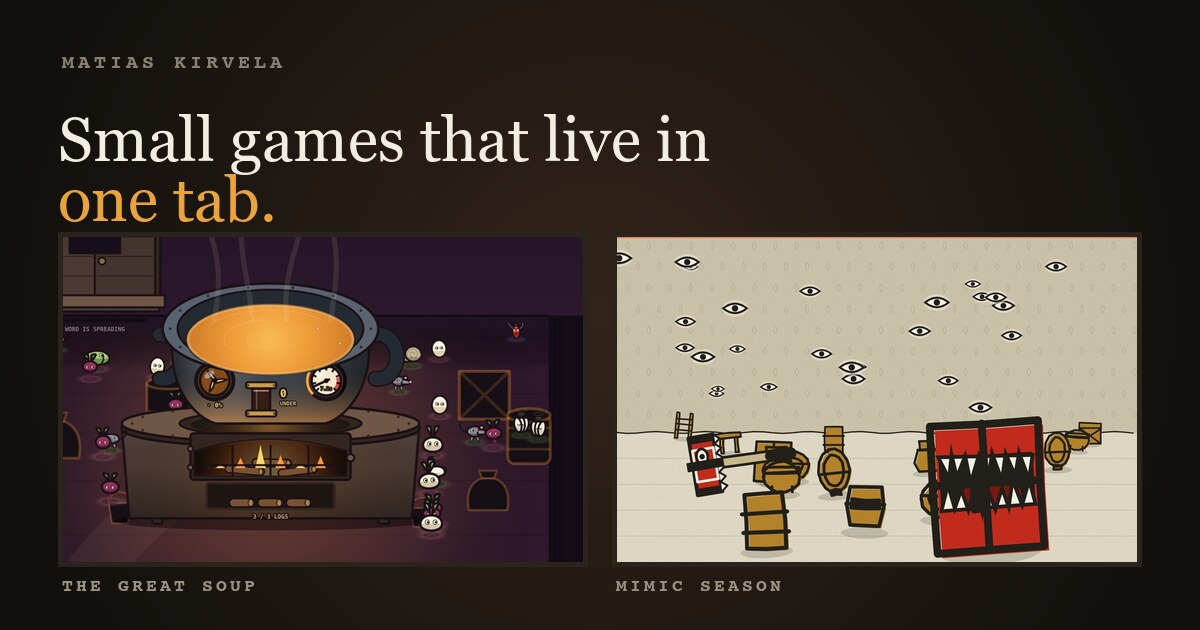
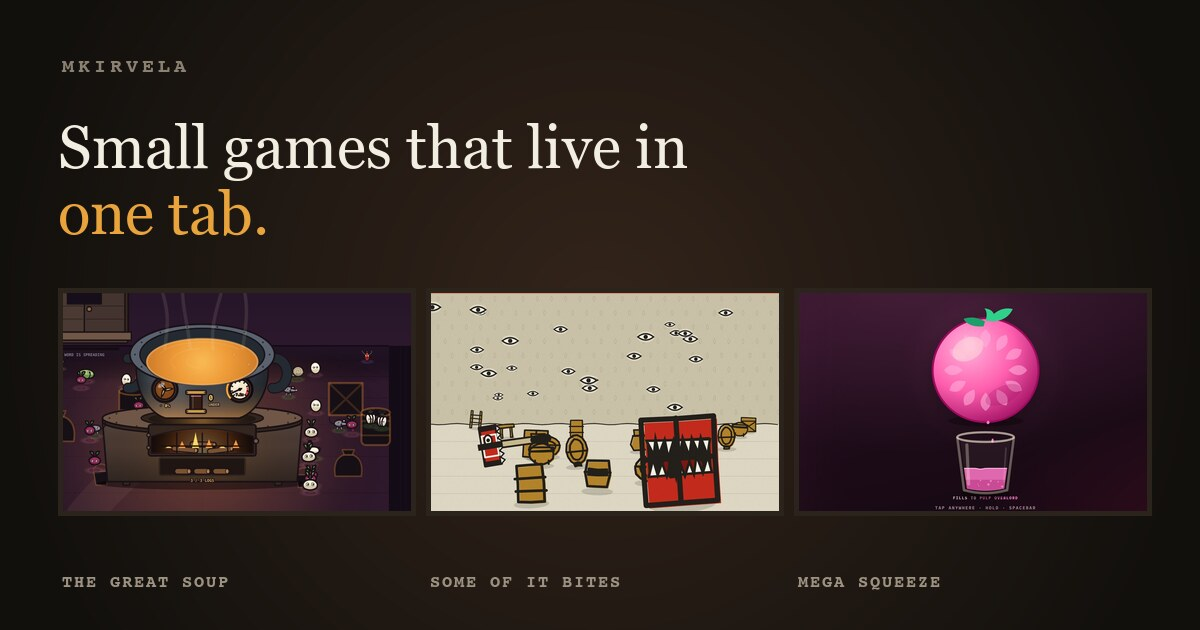
Add Mega Squeeze as the third game

diff --git a/games/mega-squeeze.html b/games/mega-squeeze.html
@@ -1,0 +1,178 @@
+<!DOCTYPE html>
+<html lang="en">
+<head>
+<meta charset="utf-8">
+<meta name="viewport" content="width=device-width, initial-scale=1">
+<title>Mega Squeeze — mkirvela</title>
+<meta name="description" content="A cold-pressed juice empire in one HTML file. Squeeze the fruit, fill the glass, buy help, never stop.">
+<meta name="theme-color" content="#faf7f0" media="(prefers-color-scheme: light)">
+<meta name="theme-color" content="#12100d" media="(prefers-color-scheme: dark)">
+
+<meta property="og:type" content="article">
+<meta property="og:title" content="Mega Squeeze">
+<meta property="og:description" content="A cold-pressed juice empire in one HTML file. Squeeze the fruit, fill the glass, buy help, never stop.">
+<meta property="og:image" content="../assets/img/mega-squeeze-og.jpg">
+<meta name="twitter:card" content="summary_large_image">
+
+<link rel="stylesheet" href="../assets/css/site.css">
+<link rel="icon" type="image/png" href="../assets/img/favicon-64.png">
+
+<!-- Blocking, and in the head, so the stored theme is on <html> before the
+     first paint. Deferring it buys nothing and costs a flash of the wrong
+     colour on every load. -->
+<script src="../assets/js/theme.js"></script>
+</head>
+<body style="--accent:#ff5fae; --accent-ink:#2a0715;">
+<div class="shell">
+
+<header class="wrap masthead">
+  <a class="wordmark" href="../index.html">
+    <img class="avatar" src="../assets/img/mkirvela.png" width="128" height="128" alt="">
+    <span class="wordmark-name">mkirvela</span>
+  </a>
+  <nav>
+    <a href="../index.html#shelf">Games</a>
+    <!-- hidden until theme.js unhides it, so no-JS readers are not offered a
+         control that cannot do anything -->
+    <button class="theme-btn" type="button" data-theme-toggle hidden>
+      Theme &middot; <span class="theme-btn-text">auto</span>
+    </button>
+  </nav>
+</header>
+
+<div class="wrap">
+  <a class="backlink" href="../index.html#shelf">&larr; All games</a>
+</div>
+
+<section class="wrap game-hero">
+  <p class="game-index"><b>03</b> <span class="kind">Clicker &middot; Idle</span></p>
+  <h1>Mega Squeeze</h1>
+  <p class="game-tagline">A cold-pressed juice empire in one HTML file.</p>
+  <div class="actions">
+    <a class="btn" href="https://mkirvela.github.io/mega-squeeze/">
+      Play in browser
+      <svg width="12" height="12" viewBox="0 0 12 12" aria-hidden="true"><path d="M2 1.5v9l8-4.5-8-4.5z" fill="currentColor"/></svg>
+    </a>
+    <span class="status">Playable</span>
+  </div>
+</section>
+
+<div class="wrap">
+  <figure class="hero-plate">
+    <span class="plate-frame">
+      <img src="../assets/img/mega-squeeze-room.jpg" width="1200" height="750"
+           alt="The game at the Dragonfruit rank: a glossy pink fruit above a tumbler half full of pink juice, a counter reading 1.40B millilitres, and a right-hand panel listing presses to buy — Calloused Thumb, Iron Grip, Zest Grater, Hydraulic Thumb, Thunder Palm, Orchard Kid.">
+    </span>
+    <figcaption>Six ranks in, at Dragon Distiller. The whole palette has retinted around the fruit &mdash; the panel, the numbers, the juice and the spill along the bottom edge.</figcaption>
+  </figure>
+</div>
+
+<main class="wrap detail">
+  <div class="prose">
+
+    <h2>What it is</h2>
+    <p class="first">
+      A clicker. Tap to earn, spend on stronger taps and passive presses, climb
+      ranks, replant for a permanent multiplier, repeat. You know this machine
+      already &mdash; the point of the exercise was <em>game feel</em>, so every
+      system in it is built to be felt rather than read off a number.
+    </p>
+
+    <blockquote class="pull">
+      Squeeze the fruit, fill the glass, buy help, never stop.
+    </blockquote>
+
+    <h2>What it does with a tap</h2>
+    <ul>
+      <li><strong>The fruit is jelly.</strong> Spring physics, not a scale
+        keyframe. It squashes under the press, pokes away from the exact point
+        your finger landed, and wobbles back with overshoot.</li>
+      <li><strong>The glass is the rank meter.</strong> Every squeeze fires a
+        ballistic pour solved to land in the mouth of the tumbler. The surface is
+        a one-dimensional spring water simulation, so each drop lands with a
+        ripple that travels out and reflects off the walls. Fill it and it is
+        <strong>SERVED</strong> &mdash; the glass drains, and a bigger fruit
+        arrives.</li>
+      <li><strong>Frenzy.</strong> Mash fast enough and you climb
+        &times;2, &times;3, &times;5, &times;8 &mdash; with rising pitch, growing
+        screen shake, and a vignette that heats up with the combo.</li>
+      <li><strong>Golden Squeeze.</strong> Crits at &times;10, with a white
+        flash, sparks and a shockwave.</li>
+      <li><strong>Lifetime spill.</strong> A pool along the bottom edge that
+        grows with your total squeezes and never gets cleaned up.</li>
+    </ul>
+
+    <h2>What you build</h2>
+    <ul>
+      <li><strong>Eight fruit tiers</strong>, each hand-built as SVG rather than
+        recoloured: lemon segments, orange pith, blood orange, pomegranate
+        seeds, watermelon stripes, dragonfruit scales, a starfield Cosmic Fig,
+        and finally haloed Ambrosia. <strong>The whole palette retints per
+        tier</strong> &mdash; the fruit, the juice, the panel, the numbers.</li>
+      <li><strong>Eight ranks to earn them</strong>, from Rind Rookie up through
+        Zest Sergeant, Nectar Broker, Melon Marshal and Dragon Distiller to
+        Ambrosia Ascendant.</li>
+      <li><strong>Twelve presses</strong> in two lines. Five make your own tap
+        heavier &mdash; Calloused Thumb, Iron Grip, Zest Grater, Hydraulic Thumb,
+        Thunder Palm. Six squeeze without you &mdash; Orchard Kid, Hand Press,
+        Centrifuge, Pulp Cannon, Orbital Squeezer, and a Grove Singularity. The
+        twelfth just buys better crits.</li>
+      <li><strong>Replanting</strong> wipes the juice and the grove for a
+        permanent multiplier. Your <em>lifetime squeezes</em> are not part of the
+        deal &mdash; that number survives every replant.</li>
+      <li><strong>Offline earnings</strong>, capped at two hours, so closing the
+        tab is not punished and leaving it open overnight is not rewarded.</li>
+    </ul>
+
+    <h2>On a phone</h2>
+    <p>
+      The press room collapses into a bottom sheet, so nothing is ever stacked
+      on top of the play area, and a tap anywhere in the stage counts. Add it to
+      the home screen and it runs fullscreen. Two-thumb mashing works &mdash;
+      every finger is counted separately.
+    </p>
+
+    <h2>Where it stands</h2>
+    <p>
+      Finished and playable. One HTML file, no build, no bundler, no
+      dependencies; progress autosaves to <code>localStorage</code>.
+      <code>prefers-reduced-motion</code> is respected throughout, which for a
+      game this loud means most of it switches off.
+    </p>
+    <p>
+      One asterisk on the house rule: this is the only game here that touches
+      the network, for a Google Fonts stylesheet. It falls back cleanly offline.
+    </p>
+
+  </div>
+
+  <aside class="aside">
+    <a class="btn" href="https://mkirvela.github.io/mega-squeeze/">
+      Play in browser
+      <svg width="12" height="12" viewBox="0 0 12 12" aria-hidden="true"><path d="M2 1.5v9l8-4.5-8-4.5z" fill="currentColor"/></svg>
+    </a>
+    <a class="btn btn-ghost" href="https://github.com/mkirvela/mega-squeeze">Source on GitHub</a>
+
+    <dl class="spec">
+      <div><dt>Genre</dt><dd>Clicker / idle</dd></div>
+      <div><dt>Session</dt><dd>Minutes at a time</dd></div>
+      <div><dt>Controls</dt><dd>Tap, hold, spacebar</dd></div>
+      <div><dt>Platform</dt><dd>Any browser</dd></div>
+      <div><dt>Install</dt><dd>None</dd></div>
+      <div><dt>Saves</dt><dd>In your browser</dd></div>
+      <div><dt>Built with</dt><dd>SVG, spring physics</dd></div>
+      <div><dt>Status</dt><dd>Playable</dd></div>
+    </dl>
+  </aside>
+</main>
+
+<footer class="wrap footer">
+  <p class="label">Made by mkirvela &middot; Helsinki</p>
+  <div class="footer-links">
+    <a href="../index.html#shelf">All games</a>
+  </div>
+</footer>
+
+</div>
+</body>
+</html>

diff --git a/index.html b/index.html
@@ -47,11 +47,11 @@
   <h1>Small games that live in <em>one tab</em>.</h1>
   <p class="lede">
     Each of these is a <strong>single HTML file</strong> — no install, no account,
-    no launcher, no build step, nothing fetched from anywhere. Click a game and
-    it is already running. They save to your own browser and they work on a phone.
+    no launcher, no build step. Click a game and it is already running. They save
+    to your own browser and they work on a phone.
   </p>
   <div class="hero-meta">
-    <span class="label">Two games &middot; more coming</span>
+    <span class="label">Three games &middot; more coming</span>
     <hr class="rule">
     <span class="label">Updated Sept 2026</span>
   </div>
@@ -132,6 +132,40 @@
           <svg width="12" height="12" viewBox="0 0 12 12" aria-hidden="true"><path d="M2 1.5v9l8-4.5-8-4.5z" fill="currentColor"/></svg>
         </a>
         <a class="link-more" href="games/some-of-it-bites.html">Read more &rarr;</a>
+      </div>
+    </div>
+  </article>
+
+  <article class="game" style="--accent:#ff5fae; --accent-ink:#2a0715;">
+    <a class="plate" href="games/mega-squeeze.html" aria-label="Mega Squeeze — details">
+      <span class="plate-frame">
+        <img src="assets/img/mega-squeeze.jpg" width="1200" height="750"
+             alt="A glossy pink dragonfruit hanging above a tumbler half full of pink juice, one drop falling between them, on a deep plum ground.">
+      </span>
+      <span class="plate-cue">Mega Squeeze</span>
+    </a>
+
+    <div class="game-body">
+      <p class="game-index"><b>03</b> <span class="kind">Clicker &middot; Idle</span> <span class="status">Playable</span></p>
+      <h2><a href="games/mega-squeeze.html">Mega Squeeze</a></h2>
+      <p class="game-tagline">A cold-pressed juice empire in one HTML file.</p>
+      <p class="game-desc">
+        Squeeze the fruit, fill the glass, buy help, never stop. The fruit is
+        jelly and squashes where your finger lands; every squeeze fires a pour
+        solved to land in the glass, and the juice ripples when it hits. Fill it
+        and a bigger fruit arrives — eight of them, each retinting the whole
+        game around itself.
+      </p>
+      <ul class="facts">
+        <li><b>Play time</b>Minutes at a time</li>
+        <li><b>Controls</b>Tap, hold, spacebar</li>
+      </ul>
+      <div class="actions">
+        <a class="btn" href="https://mkirvela.github.io/mega-squeeze/">
+          Play in browser
+          <svg width="12" height="12" viewBox="0 0 12 12" aria-hidden="true"><path d="M2 1.5v9l8-4.5-8-4.5z" fill="currentColor"/></svg>
+        </a>
+        <a class="link-more" href="games/mega-squeeze.html">Read more &rarr;</a>
       </div>
     </div>
   </article>

diff --git a/README.md b/README.md
@@ -1,6 +1,6 @@
 # Games
 
-A static showcase for the browser games. Three HTML files, one stylesheet, one
+A static showcase for the browser games. Four HTML files, one stylesheet, one
 small script, a folder of screenshots. No build step, no dependencies, nothing
 fetched from anywhere but this folder — the same house rule the games
 themselves keep, so this deploys anywhere that can serve files and also works
@@ -40,7 +40,7 @@ open index.html          # that's it
    the detail page is where a real HUD belongs.
 
 2. **Copy one card.** In `index.html`, duplicate a whole
-   `<article class="game">` block. Bump the `01` / `02`, change the copy, and
+   `<article class="game">` block. Bump the index number, change the copy, and
    set the two custom properties in its `style` attribute:
 
    ```html
@@ -61,7 +61,7 @@ open index.html          # that's it
 3. **Copy a detail page.** Duplicate one of `games/*.html`, and put the same
    two accent values on its `<body>` so the whole page takes the game's ink.
 
-4. **Update the count** in the hero (`Two games · more coming`) and the date
+4. **Update the count** in the hero (`Three games · more coming`) and the date
    next to it.
 
 The cards alternate which side the art sits on automatically — odd cards put it
